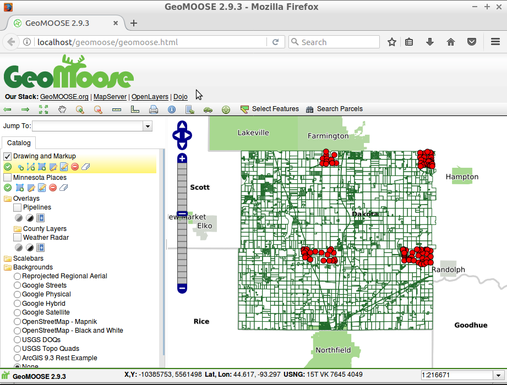
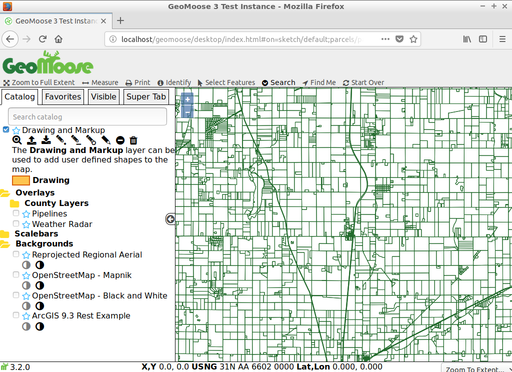
Update GeoMoose docs for GeoMoose 3.2.0

diff --git a/doc/quickstart/geomoose_quickstart.rst b/doc/quickstart/geomoose_quickstart.rst
@@ -1,5 +1,5 @@
 :Author: Bob Basques
-:Version: osgeolive11.0
+:Version: osgeolive12.0
 :Reviewer: Angelos Tzotsos, OSGeo
 :License: Creative Commons Attribution-ShareAlike 3.0 Unported  (CC BY-SA 3.0)
 
@@ -51,83 +51,78 @@ The Interfaces presented above shows:
 Identifying a location in GeoMoose
 ================================================================================
 
-You can identify a location in the interface by clicking on the "identify", ("i" in a blue circle icon) button in the top toolbar, and then clicking a point on the map to identify.
+You can identify a location in the interface by clicking on the "identify", ("i" in a circle icon) button in the top toolbar, and then clicking a point on the map to identify.
 
-  .. image:: /images/projects/geomoose/geomoose-2_9-screenshot002.png
+  .. image:: /images/projects/geomoose/geomoose-quickstart-01.png
 
-The menu along the left side of the Map view will display a report related to the point that you clicked in the map.   This is a service in the GeoMoose Demo package that has been configured to respond to quereies for the "Parcel" layer when a point is clicked.
+The catalog along the left side of the Map view will change to the "Super Tab" - a place to where GeoMoose displays results of an action or asks for more information.  In this case, it will show the results of a query of each active and identifiable layer for the point that you clicked in the map.
 
 Measuring in GeoMoose
 ================================================================================
 
-GeoMoose has two measuring tools installed and activated by default. Clicking the straight ruler icon in the top toolbar, will start the linear measuring tool.  You can click as many points as you like in the map window and a trailing polyline will be drawn.  When you get to your last point, just double click to stop.  The total distance of all lines drawn will be used to generate the "Total Length" in the units of your choice in the side menu. Clicking the other ruler icon in the top toolbar, will allow you measure areas. 
+The GeoMoose measure tool allows you to measure a point (return the coordinates of a picked point), measure the distance along a potentially multi-segment line, and measure the area of a polygon.  Clicking the double ended arrow icon in the top toolbar, will start the measuring tool.  Next select if you want to measure a point, line, or polygon.  Next click on the map where you want to measure.  To measure a point, just click the point on the map you want to measure.  To measure a line or polygon click on the map for each vertex a of the line/polygon.  Double click to end the line/polygon.
 
-  .. image:: /images/projects/geomoose/geomoose-2_9-screenshot004.png
+Note: you can also measure a pre-existing feature on the map (if it is from a vector layer, including previous query results) without having to manually trace over it.  
 
-These user tools are considered services by the GeoMoose interface and can be added to via GeoMoose's MAPBOOK control file.
+
+  .. image:: /images/projects/geomoose/geomoose-quickstart-02a.png
+
+  .. image:: /images/projects/geomoose/geomoose-quickstart-02b.png
+
+  .. image:: /images/projects/geomoose/geomoose-quickstart-02c.png
+		
 
 
 Selecting Features
 ================================================================================
-You can select features from a Point, Line, polygon, or a Box.  To start, click on the "Select Features" icon (polygon with pencil), and start drawing a selection polygon in the map. You can double click the last point to finish the drawing process.  This screenshot shows the drawing process on the map.  the left menu is displaying the input form for the criteria of the selection, in this case a Polygon against the "Parcels" layers. You also have the option to select features based on a buffer which is a "0" value by default. This is a service in the GeoMoose Demo package that has been configured to respond to quereies for the "Parcel" layer. 
+You can select features from a Point, Line, Polygon, or from an existing feature.  To start, click on the "Select Features" icon (mouse cursor icon), pick point, line, polygon and start drawing your selection in the map.  You can double click the last point to finish the drawing process.  If you want to adjust your selection you can do that with the "Modify Feature" option.
 
-  .. image:: /images/projects/geomoose/geomoose-2_9-screenshot005.png
+You also have the option to select features based on a buffered version of what you drew.  The default is to buffer by "0" which does nothing.  Positive values expand what you drew by that distance, negative values shrink your drawing.
 
-The above screenshot is showing the "PARCEL" layer for selects and also using the "Parcels" layer as the attributes to report back on.  Two different layers can be used in a double pass query, one for the selection, and one for retrieving the attributes from for reporting.  The sceenshot below takes the selection process further by adding in a buffering distance of 100ft.
+Select which layer you want to select features from using the "Query Layer" select-box.  Note: not all layers can be used with the Select Features tool.  To be available for selection, a layer needs to be a vector layer and be configured for selection in the mapbook.
 
-  .. image:: /images/projects/geomoose/geomoose-2_9-screenshot006.png
+  .. image:: /images/projects/geomoose/geomoose-quickstart-03a.png
 
-Clicking the "Go!" button in the side menu in the above screenshot will generate a report and display it in the side menu.  NOTE: The output can also be configured to be sent to a new window as well.
 
-  .. image:: /images/projects/geomoose/geomoose-2_9-screenshot007.png
+Finally, click the "Go" button to actually select the features.  GeoMoose will return a summary of what was selected in the Super Tab as well, highlight the selected features on the map, and show an attribute table of the selected features.
 
-The results above demonstrate the service response to the buffered query by displaying the result in the map via a selection overlay that highlights the original selection area polygon (purple), the crossing and within parcels at a 100ft buffer (orange) and the parcels crossing and within the buffered polygon (yellow).  The side menu now displays the reported results of the query process with options for outputting in other formats for mailing labels.
+
+  .. image:: /images/projects/geomoose/geomoose-quickstart-03b.png
+
+If you hover over a line in the table, the corresponding feature on the map will be highlighted.  Additionally, you can use the funnel icons in the table header to further filter results, and uses the triangle icons in the table header to sort results.  The results can be downloaded as a CSV file using the download icon to the top and left of the table. 
+
 
 Searching
 ================================================================================
 
-You can also search for features by attribute.  To start click on the "Search Parcels" icon and enter your search parameters on the search menu then pressing the "Go!" button. The following screenshot demostrates a search of all parcel owners containing the name "frank".  
+You can also search for features by attribute.  To start, hover over the "Search" menu in the toolbar and then click on the "Search Parcels" icon.  Enter your search parameters in the Super Tab then click the "Go!" button.
 
-  .. image:: /images/projects/geomoose/geomoose-2_9-screenshot011a.png
+  .. image:: /images/projects/geomoose/geomoose-quickstart-04a.png
+
+The following screenshot demostrates a search of all parcel owners containing the name "frank".  
+
+  .. image:: /images/projects/geomoose/geomoose-quickstart-04b.png
 
 Three results appear in the list and are highlighted on the map. 
 
-  .. image:: /images/projects/geomoose/geomoose-2_9-screenshot011.png
+  .. image:: /images/projects/geomoose/geomoose-quickstart-04c.png
   
-Clicking the binocular icon/parcel number in blue will zoom you to the specific parcel as illustrated in the following screenshot. 
+Clicking the magnifying glass icon/parcel number will zoom you to the specific parcel as illustrated in the following screenshot. 
 
-  .. image:: /images/projects/geomoose/geomoose-2_9-screenshot012.png
-
-Layer Tools 
-================================================================================
-
-GeoMoose lets you edit layers graphically. Setting up a layer for editing is discussed elsewhere on the GeoMoose website. The demo is setup for you to edit a sketch layer as illustrated in the following screenshot.
-
-  .. image:: /images/projects/geomoose/geomoose-2_9-screenshot013.png
+  .. image:: /images/projects/geomoose/geomoose-quickstart-04d.png
   
   
 Printing
 ================================================================================
 
-This next screenshot shows what the Print Map service looks as provided with demo for GeoMoose.  The side menu in the following view, shows the options available for printing the current mapview. Sheet size, orientation, resolution for both raster image backgrounds and for overall output are also available.
+This next screenshot shows what the Print tool looks as provided with demo for GeoMoose.  When you click on the Print tool, a dialog appears which asks for a title for the printed map, the page size and rotation, printed resolution, and shows a preview of what will be printed.
 
-  .. image:: /images/projects/geomoose/geomoose-2_9-screenshot008.png
+  .. image:: /images/projects/geomoose/geomoose-quickstart-05a.png
 
-The next menu displays the choices available for output, by default GeoMoose allows a composite Raster Image, a HTML file, or a PDF.  Clicking on a PDF output option will present you with a dialog similar to:
+Clicking the Print button in the dialog will generate a PDF printout that you can open or save.
 
-  .. image:: /images/projects/geomoose/geomoose-2_9-screenshot009.png
+  .. image:: /images/projects/geomoose/geomoose-quickstart-05b.png
 
-The following screenshot shows an example of a PDF output in landscape mode.
-
-  .. image:: /images/projects/geomoose/geomoose-2_9-screenshot010.png
-
-
-Other Services
-================================================================================
-
-GeoMoose can also link to other on-line services such as birds eye view from BING, StreetView from Google and Geocoding from Google. Always remember to review license requirements for any external services to ensure compliance. 
-
-  .. image:: /images/projects/geomoose/geomoose-2_9-screenshot014.png
 
 What Next?
 ================================================================================
@@ -137,8 +132,8 @@ a lot more functionality you can try.
 
 GeoMoose Project home
 
-  http://www.geomoose.org/
+  https://www.geomoose.org/
 
 GeoMoose Tutorial
 
-  https://docs.geomoose.org/2.9/getting_started.html
+  https://www.geomoose.org/quickstart.html

diff --git a/doc/overview/geomoose_overview.rst b/doc/overview/geomoose_overview.rst
@@ -2,7 +2,7 @@
 :Author: Bob Basques
 :Reviewer: Cameron Shorter, Jirotech
 :Reviewer: Angelos Tzotsos, OSGeo
-:Version: osgeolive11.0
+:Version: osgeolive12.0
 :License: Creative Commons Attribution 3.0 Unported (CC BY 3.0)
 
 @LOGO_geomoose@
@@ -27,11 +27,11 @@ Core Features
 --------------------------------------------------------------------------------
 
 * Distributed data maintenance amongst multiple owners.
-* Access maps from: MapServer, Google, VirtualEarth, Tilecache, ArcGIS REST, WMS.
+* Access maps from: MapServer, Tilecache, ArcGIS REST, WMS, WFS.
 * Configure multiple views of data sources.
 * Discover and filter from data catalogs.
-* Tools: measure, drawing, query, fading, re-order, reprojection, jump-to zoom, coordinate readouts, ...
-* Displays: MapViewer, Bird's Eye, Side Menu, Navigation, Tabbed User Controls.
+* Tools: measure, drawing, query, fading, re-order, jump-to zoom, coordinate readouts, ...
+* Displays: MapViewer, Side Menu, Navigation, Tabbed User Controls.
 * XML based MapBook configuration file for User Interface, Source Layers and Tools.
 * Integration with Mapserver.
 * Modular design facilitates integration with non-spatial systems (such as asset management).
@@ -40,24 +40,23 @@ Core Features
 
 Implemented Standards
 --------------------------------------------------------------------------------
-* WMS
+* WMS (client)
 * WFS (client)
-* WFS-T (client)
 
 Details
 --------------------------------------------------------------------------------
 
-**Website:** http://www.geomoose.org/
+**Website:** https://www.geomoose.org/
 
-**Licence:** MIT based license. http://www.geomoose.org/info/license.html
+**Licence:** MIT based license. https://www.geomoose.org/info/license.html
 
 **Software Version:** |version-geomoose|
 
 **Supported Platforms:** Windows, Linux, Mac
 
-**Commercial Support:** http://www.geomoose.org/info/commercial_support.html
+**Commercial Support:** https://www.geomoose.org/info/commercial_support.html
 
-**Community Support:** http://www.geomoose.org/info/mailing_lists.html
+**Community Support:** https://www.geomoose.org/info/mailing_lists.html
 
 
 @QUICKSTART_geomoose@
